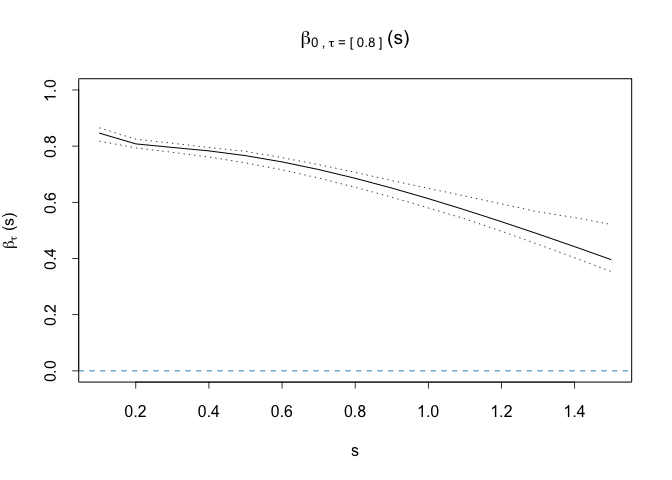
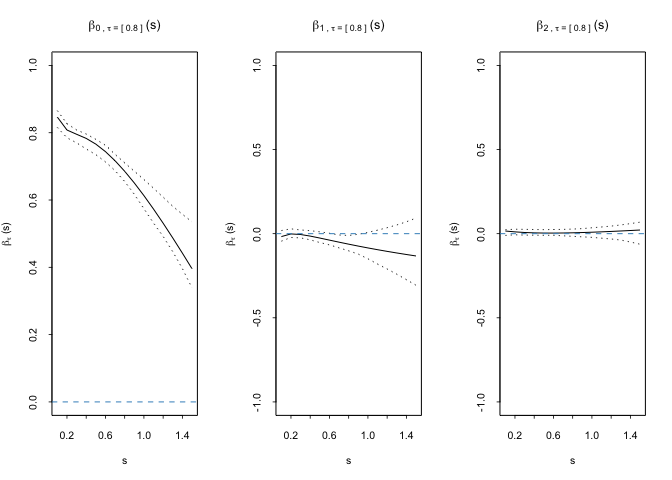
Update

diff --git a/README.md b/README.md
@@ -15,76 +15,68 @@ using a simulated dataset to estimate the biomarker threshold at a
 specified specificity level along with the corresponding sensitivity,
 and to construct a covariate- and measurement time-specific ROC curve.
 
-## Read in simulated long and short data
+## Read in long and short data
 
-    long.data <- read.csv("Data/reg_data_sim_long.csv")
-    short.data <- read.csv("Data/reg_data_sim_short.csv")
+    dat.long <- read.csv("Data/reg_data_sim_long.csv")
+    dat.short <- read.csv("Data/reg_data_sim_short.csv")
 
-    #set parameters
-    cutoff.type.basis = "FP"
-    sens.type.basis = "FP"
-    covariate1 = c("Z", "Zcont")
-    covariate2 = c("Z", "Zcont")
-    tau = 0.8
-    time.window = 1
-    nResap = 50
+## Estimate time-varying coefficients
 
-## Estimate measurement time-varying coefficients
+-   dat.long: long format data, each subject may have multiple biomarker
+    records
+-   dat.short: short format data, each subject only has one record,
+    including observed event time, event indicator, baseline covariates
+    (eg. Z, Zcont in this example)
+-   cutoff.type.basis: type of basis function to estimate biomarker
+    threshold, (FP: Fractional polynomial, linear: linear basis)
+-   sens.type.basis: type of basis function to estimate sensitivity
+    level, (FP: Fractional polynomial, linear: linear basis)
+-   covariate1: a vector of covariate names for fitting the model in
+    estimating the biomarker threshold
+-   covariate2: a vector of covariate names for fitting the model in
+    estimating the sensitivity level
+-   tau: target specificity level, could be a single value or a set of
+    values between 0 and 1
+-   W: time window
+-   nResap: number of perturbation resampling
 
-    model.results = analysis_main(long.data, short.data, cutoff.type.basis, sens.type.basis, covariate1, covariate2, tau, time.window, nResap)
+<!-- -->
+
+    model.results = analysis_main(dat.long = dat.long, 
+                                  dat.short = dat.short, 
+                                  cutoff.type.basis = "FP", 
+                                  sens.type.basis = "FP", 
+                                  covariate1 = c("Z", "Zcont"), 
+                                  covariate2 = c("Z", "Zcont"), 
+                                  tau = 0.8, 
+                                  time.window = 1,
+                                  nResap = 50)
 
     #output
+    par(mfrow=c(1,3))
     model.results$cutoff_plots() 
 
-![](README_files/figure-markdown_strict/unnamed-chunk-3-1.png)![](README_files/figure-markdown_strict/unnamed-chunk-3-2.png)![](README_files/figure-markdown_strict/unnamed-chunk-3-3.png)
+![](README_files/figure-markdown_strict/unnamed-chunk-3-1.png)
 
     model.results$sens_plots()
 
-![](README_files/figure-markdown_strict/unnamed-chunk-3-4.png)![](README_files/figure-markdown_strict/unnamed-chunk-3-5.png)![](README_files/figure-markdown_strict/unnamed-chunk-3-6.png)
-
-    model.results$model_results$model.results$cutoff.model
-
-    ## Call:
-    ## rq(formula = form, tau = tau, data = data, weights = wt_rsap)
-    ## 
-    ## Coefficients:
-    ##     (Intercept)            logt           sqrtt       sqrtt_inv               Z 
-    ##      3.25781626      2.43893147     -4.10516946      1.49808804      0.17779243 
-    ##           Zcont          logt:Z      logt:Zcont         sqrtt:Z     sqrtt:Zcont 
-    ##     -0.20584834     -0.32217537     -0.17960692      0.08440667      0.30341534 
-    ##     sqrtt_inv:Z sqrtt_inv:Zcont 
-    ##     -0.33604048     -0.09086832 
-    ## 
-    ## Degrees of freedom: 1543 total; 1531 residual
-
-    model.results$model_results$model.results$sensitivity.model
-
-    ## [[1]]
-    ## 
-    ## Call:  glm(formula = form, family = binomial(link = "logit"), data = data, 
-    ##     weights = mod.weight)
-    ## 
-    ## Coefficients:
-    ##     (Intercept)             logt            sqrtt        sqrtt_inv  
-    ##          -1.336           -3.094            4.177           -1.973  
-    ##               Z            Zcont           logt:Z       logt:Zcont  
-    ##          11.076            9.550           21.841           11.416  
-    ##         sqrtt:Z      sqrtt:Zcont      sqrtt_inv:Z  sqrtt_inv:Zcont  
-    ##         -27.148          -16.262           16.284            6.840  
-    ## 
-    ## Degrees of Freedom: 1395 Total (i.e. Null);  1384 Residual
-    ## Null Deviance:       1752 
-    ## Residual Deviance: 1731  AIC: 1663
+![](README_files/figure-markdown_strict/unnamed-chunk-3-2.png)
 
 ## Conditional ROC curve
 
-    ROC.data = data.frame(vtime = 0.5, Z = 1, Zcont = mean(short.data$Zcont))
+    ROC.data = data.frame(vtime = 0.5, Z = 1, Zcont = 0.25)
     tau.set = seq(0.01, 1, 0.05)
 
-    ROC.results <- ROC.main(my.newdat = ROC.data, long.data, short.data, tau.set, time.window,
-                             cutoff.type.basis = "FP", sens.type.basis = "FP",
-                             covariate1 = c("Z", "Zcont"), covariate2 = c("Z", "Zcont"),
-                             nResap=50)
+    ROC.results <- ROC.main(my.newdat = ROC.data,
+                            dat.long = dat.long,
+                            dat.short = dat.short, 
+                            tau = tau.set, 
+                            time.window = 1,
+                            cutoff.type.basis = "FP",
+                            sens.type.basis = "FP",
+                            covariate1 = c("Z", "Zcont"), 
+                            covariate2 = c("Z", "Zcont"),
+                            nResap=50)
 
     #output ROC curve and AUC value
     plot_ROC(ROC.results$ROC.results$ROC, my.add = FALSE, my.col = "black", my.lty = 1)
@@ -93,4 +85,4 @@ and to construct a covariate- and measurement time-specific ROC curve.
 
     ROC.results$ROC.results$AUC
 
-    ## [1] 0.858847
+    ## [1] 0.8568154
